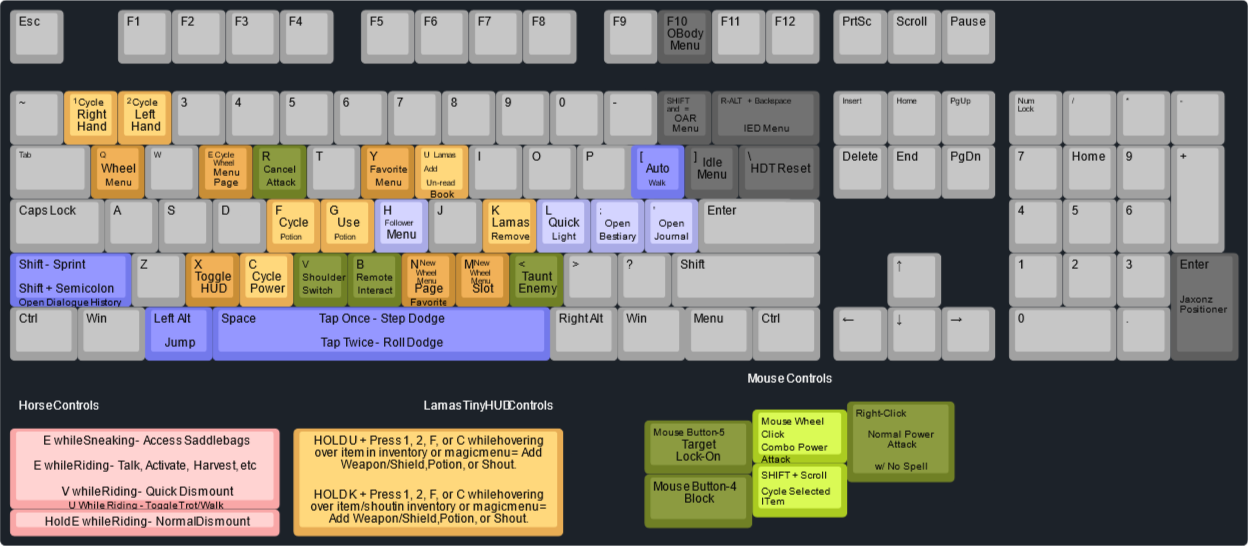
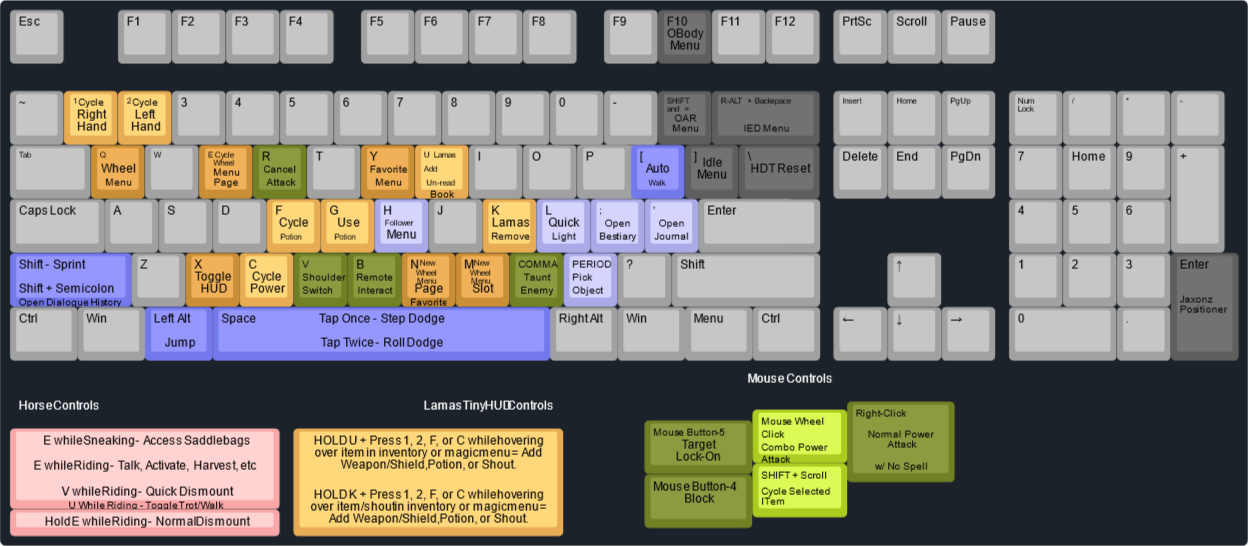
object manip pick object keybind
Also remove old keybind image from some time ago

Changed region(s): [[0.4062, 0.467, 0.5, 0.5604]]

diff --git a/content/en/docs/Mandatory Reading/Gameplay Guide/importanthotkeys.md b/content/en/docs/Mandatory Reading/Gameplay Guide/importanthotkeys.md
@@ -236,6 +236,11 @@ Equip items to your right or left hand from the Wheel Menu with Left Click and R
 
 ## Misc
 
+### PERIOD
+
+- Pick the object you are looking at for manipulation with [Object Manipulation Overhaul](https://www.nexusmods.com/skyrimspecialedition/mods/123664).
+- All other key binds from the above mod are default.
+
 ### SHIFT+;
 
 - Open the Dialogue History menu, to view previous conversations with NPCs
